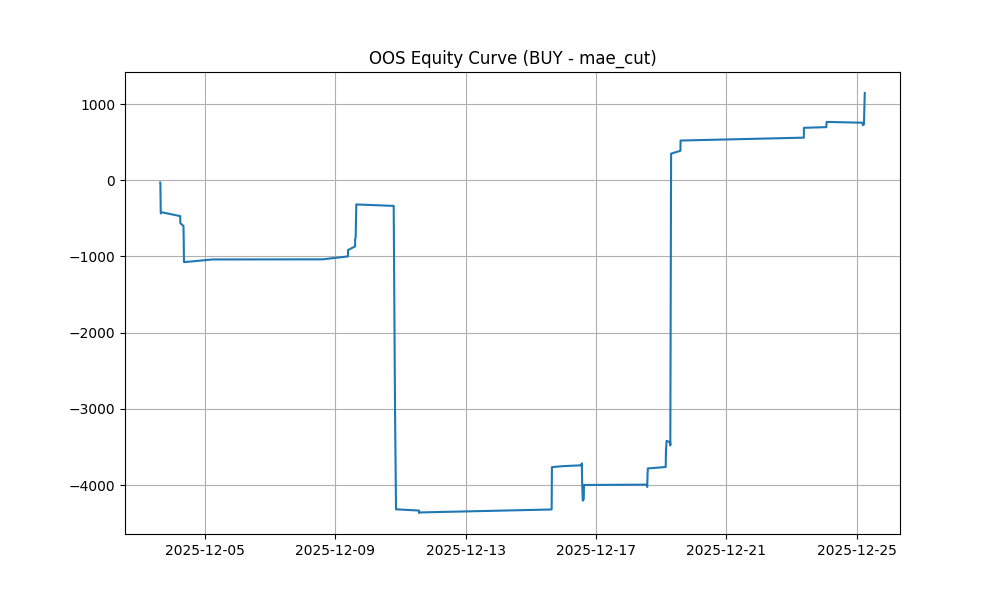
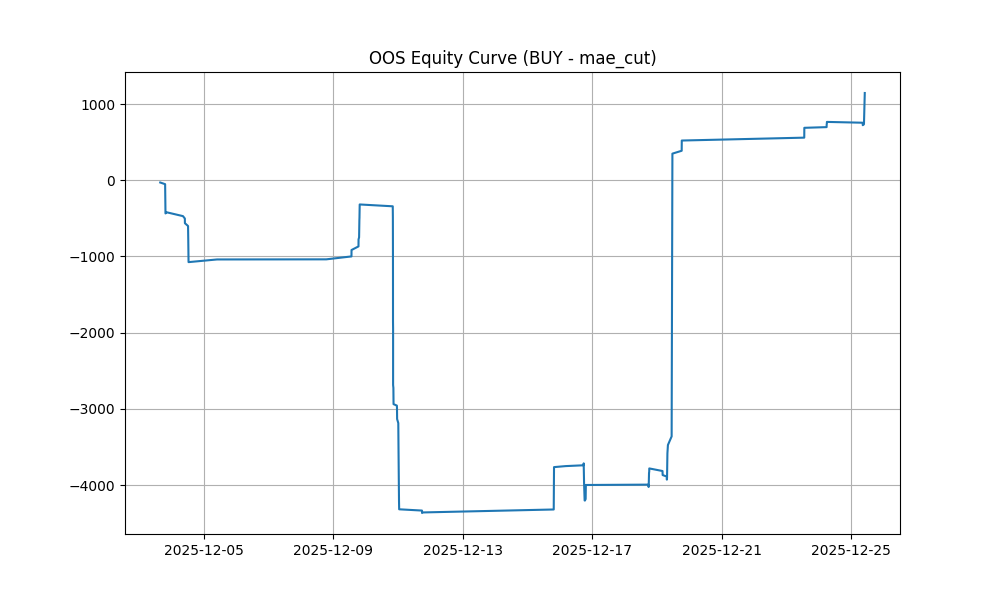
Add DD decomposition analysis and finalized exit layer comparison results

diff --git a/ai_soundness_audit.py b/ai_soundness_audit.py
@@ -143,6 +143,7 @@ class SoundnessAudit:
             window_bid = self.bid_ohlc.iloc[entry_idx : end_idx + 1]
             
             exit_price = None
+            exit_time = None
             exit_reason = "HOLD"
             mae = 0
             mfe = 0
@@ -150,6 +151,7 @@ class SoundnessAudit:
             for i in range(len(window_ohlc)):
                 curr_ohlc = window_ohlc.iloc[i]
                 curr_bid = window_bid.iloc[i]
+                curr_time = window_ohlc.index[i]
                 
                 # Update MAE/MFE
                 if side == 'BUY':
@@ -160,6 +162,7 @@ class SoundnessAudit:
                     
                     if low_p <= sl_price:
                         exit_price = sl_price
+                        exit_time = curr_time
                         exit_reason = "SL"
                         break
                 else:
@@ -170,6 +173,7 @@ class SoundnessAudit:
                     
                     if high_p >= sl_price:
                         exit_price = sl_price
+                        exit_time = curr_time
                         exit_reason = "SL"
                         break
 
@@ -180,6 +184,7 @@ class SoundnessAudit:
                     current_mae_pips = mae * 100
                     if current_mae_pips >= mae_cut_pips:
                         exit_price = curr_bid['close'] if side == 'BUY' else curr_ohlc['close']
+                        exit_time = curr_time
                         exit_reason = "MAE_CUT"
                         break
 
@@ -193,6 +198,7 @@ class SoundnessAudit:
                     current_body_avg = window_segment['Body_Size'].mean()
                     if current_body_avg < entry_body_avg * decay_ratio:
                         exit_price = curr_bid['close'] if side == 'BUY' else curr_ohlc['close']
+                        exit_time = curr_time
                         exit_reason = "DECAY_BODY"
                         break
                         
@@ -200,6 +206,7 @@ class SoundnessAudit:
                     current_atr_avg = window_segment['ATR_1m'].mean()
                     if current_atr_avg < entry_atr_1m * decay_ratio:
                         exit_price = curr_bid['close'] if side == 'BUY' else curr_ohlc['close']
+                        exit_time = curr_time
                         exit_reason = "DECAY_VOL"
                         break
             
@@ -208,6 +215,7 @@ class SoundnessAudit:
                 final_ohlc = window_ohlc.iloc[-1]
                 final_bid = window_bid.iloc[-1]
                 exit_price = final_bid['close'] if side == 'BUY' else final_ohlc['close']
+                exit_time = window_ohlc.index[-1]
             
             pips = (exit_price - entry_price) * 100 if side == 'BUY' else (entry_price - exit_price) * 100
             net_pips = pips - cost_pips
@@ -217,7 +225,9 @@ class SoundnessAudit:
             vol_regime = "HIGH" if self.ohlc.loc[t, 'ATR_1H'] > self.ohlc['ATR_1H'].median() else "LOW"
             
             results.append({
-                'timestamp': t,
+                'signal_time': t,
+                'entry_time': entry_time,
+                'exit_time': exit_time,
                 'side': side,
                 'entry_p': entry_price,
                 'exit_p': exit_price,
@@ -233,6 +243,93 @@ class SoundnessAudit:
             
         return pd.DataFrame(results)
 
+    def extract_dd_decomposition(self, trades_df):
+        if trades_df.empty:
+            return
+            
+        # 1. Build Realized Equity Curve
+        equity_df = trades_df.sort_values('exit_time').copy()
+        equity_df['cum_pips'] = equity_df['net_pips'].cumsum()
+        equity_df['running_max'] = equity_df['cum_pips'].cummax()
+        equity_df['drawdown'] = equity_df['cum_pips'] - equity_df['running_max']
+        equity_df.to_csv(f"{self.out_dir}/equity_oos_trades.csv", index=False)
+        
+        # 2. Extract DD Events
+        dd_events = []
+        event_id = 0
+        in_dd = False
+        peak_time = equity_df.iloc[0]['exit_time']
+        peak_val = equity_df.iloc[0]['cum_pips']
+        
+        for idx, row in equity_df.iterrows():
+            if row['cum_pips'] >= peak_val:
+                if in_dd:
+                    # DD Event Recovered
+                    event['recovered'] = True
+                    event['recovery_time'] = row['exit_time']
+                    dd_events.append(event)
+                    in_dd = False
+                peak_time = row['exit_time']
+                peak_val = row['cum_pips']
+            else:
+                if not in_dd:
+                    # New DD Event Starts
+                    in_dd = True
+                    event_id += 1
+                    event = {
+                        'event_id': event_id,
+                        'peak_time': peak_time,
+                        'peak_equity': round(peak_val, 2),
+                        'trough_time': row['exit_time'],
+                        'trough_equity': round(row['cum_pips'], 2),
+                        'max_dd_pips': round(row['drawdown'], 2),
+                        'recovered': False,
+                        'recovery_time': None
+                    }
+                else:
+                    # Update Trough
+                    if row['cum_pips'] < event['trough_equity']:
+                        event['trough_time'] = row['exit_time']
+                        event['trough_equity'] = round(row['cum_pips'], 2)
+                        event['max_dd_pips'] = round(row['drawdown'], 2)
+        
+        if in_dd:
+            dd_events.append(event)
+            
+        df_events = pd.DataFrame(dd_events)
+        if not df_events.empty:
+            df_events['duration_to_trough_min'] = (df_events['trough_time'] - df_events['peak_time']).dt.total_seconds() / 60
+            df_events.to_csv(f"{self.out_dir}/dd_events_oos.csv", index=False)
+            
+            # 3. Culprit Ranking (Top 10)
+            culprits_list = []
+            for _, ev in df_events.iterrows():
+                # Trades that CLOSED during the [peak, trough] period
+                culprits = equity_df[(equity_df['exit_time'] >= ev['peak_time']) & (equity_df['exit_time'] <= ev['trough_time'])].copy()
+                if culprits.empty: continue
+                
+                culprits['dd_contribution_pips'] = culprits['net_pips'].clip(upper=0)
+                culprits = culprits.sort_values('dd_contribution_pips').head(10)
+                culprits['event_id'] = ev['event_id']
+                culprits_list.append(culprits)
+            
+            if culprits_list:
+                df_culprits = pd.concat(culprits_list)
+                df_culprits.to_csv(f"{self.out_dir}/dd_culprits_oos_top10.csv", index=False)
+                
+                # 4. Culprit Summary
+                summary_list = []
+                for eid, group in df_culprits.groupby('event_id'):
+                    summary_list.append({
+                        'event_id': eid,
+                        'culprit_count': len(group),
+                        'avg_mae': group['mae'].mean().round(2),
+                        'avg_hold': group['hold_min_actual'].mean().round(2),
+                        'reasons': group['reason'].value_counts().to_dict(),
+                        'hours': group['hour_utc'].value_counts().to_dict()
+                    })
+                pd.DataFrame(summary_list).to_csv(f"{self.out_dir}/dd_culprits_summary_oos.csv", index=False)
+
     def calculate_risk_metrics(self, trades_df):
         if trades_df.empty:
             return {}
@@ -247,8 +344,10 @@ class SoundnessAudit:
             pf = pos / neg if neg != 0 else np.inf
             win_rate = (p_df['net_pips'] > 0).mean() * 100
             
-            # Max DD
-            cum_pips = p_df['net_pips'].cumsum()
+            # Max DD (Realized)
+            # Need to sort by exit_time for correct DD calculation
+            e_df = p_df.sort_values('exit_time')
+            cum_pips = e_df['net_pips'].cumsum()
             running_max = cum_pips.cummax()
             dd = cum_pips - running_max
             max_dd = dd.min()
@@ -275,9 +374,13 @@ class SoundnessAudit:
 
         # Period Split
         buy_trades['period'] = 'OOS'
-        buy_trades.loc[buy_trades['timestamp'] <= pd.Timestamp(TRAIN_END), 'period'] = 'TRAIN'
-        buy_trades.loc[(buy_trades['timestamp'] > pd.Timestamp(TRAIN_END)) & (buy_trades['timestamp'] <= pd.Timestamp(VAL_END)), 'period'] = 'VAL'
+        buy_trades.loc[buy_trades['signal_time'] <= pd.Timestamp(TRAIN_END), 'period'] = 'TRAIN'
+        buy_trades.loc[(buy_trades['signal_time'] > pd.Timestamp(TRAIN_END)) & (buy_trades['signal_time'] <= pd.Timestamp(VAL_END)), 'period'] = 'VAL'
         
+        # DD Decomposition for OOS
+        oos_trades = buy_trades[buy_trades['period'] == 'OOS'].copy()
+        self.extract_dd_decomposition(oos_trades)
+
         # Save Details
         buy_trades.to_csv(f"{self.out_dir}/trades.csv", index=False)
         
@@ -298,11 +401,11 @@ class SoundnessAudit:
         pd.DataFrame(risk_list).to_csv(f"{self.out_dir}/summary_period_risk.csv", index=False)
         
         # Equity Curve for OOS BUY
-        oos_buy = buy_trades[buy_trades['period'] == 'OOS'].copy()
-        if not oos_buy.empty:
-            oos_buy['cum_pips'] = oos_buy['net_pips'].cumsum()
+        if not oos_trades.empty:
+            oos_trades = oos_trades.sort_values('exit_time')
+            oos_trades['cum_pips'] = oos_trades['net_pips'].cumsum()
             plt.figure(figsize=(10,6))
-            plt.plot(oos_buy['timestamp'], oos_buy['cum_pips'])
+            plt.plot(oos_trades['exit_time'], oos_trades['cum_pips'])
             plt.title(f"OOS Equity Curve (BUY - {exit_mode})")
             plt.grid(True)
             plt.savefig(f"{self.out_dir}/equity_oos.png")

diff --git a/audit_results_exit_compare/report.md b/audit_results_exit_compare/report.md
@@ -4,9 +4,9 @@
 |:--------------|--------:|--------:|-------:|--------------:|----------:|----------:|-----:|
 | baseline_hold |     405 | 1712.35 |   4.23 |      -4546.62 |     53.08 |     56.39 | 1.29 |
 | mae_cut       |     405 | 1144.71 |   2.83 |      -4336.59 |     51.88 |     55.09 | 1.2  |
-| energy_decay  |     405 |  267.72 |   0.66 |      -2618.48 |     51.68 |     55.09 | 1.06 |
+| energy_decay  |     405 |  267.72 |   0.66 |      -2558.18 |     51.68 |     55.09 | 1.06 |
 
 ### Evaluation Results
 
-- **Lowest Drawdown**: energy_decay (-2618.48 pips)
+- **Lowest Drawdown**: energy_decay (-2558.18 pips)
 - **Best MAE Tail Control**: mae_cut (P99: 55.09 pips)
